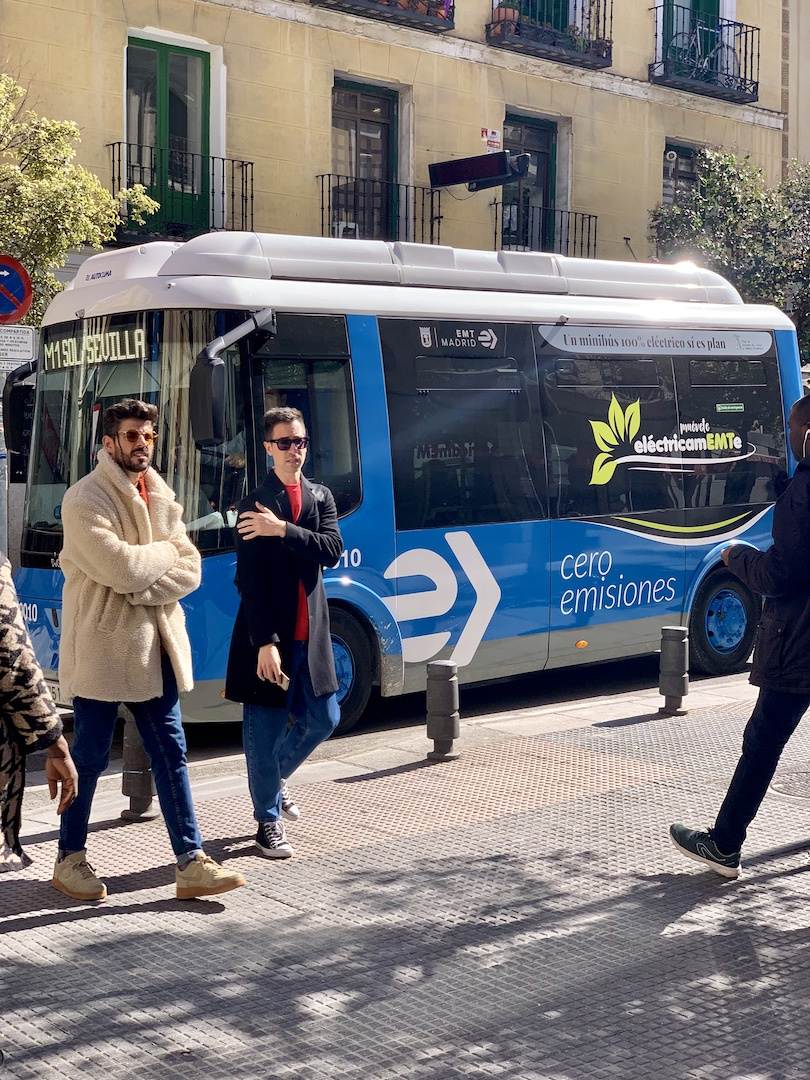
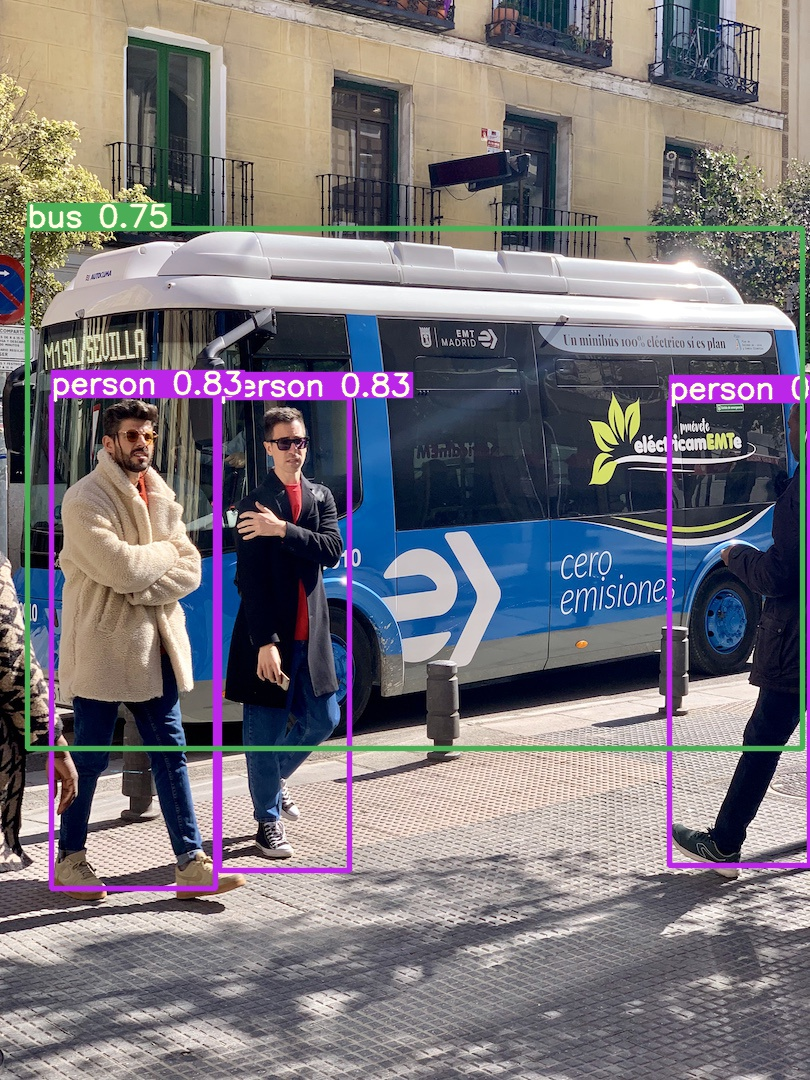
split successfully

Changed region(s): [[0.0309, 0.1833, 1.0, 0.825]]

diff --git a/detect.py b/detect.py
@@ -1,0 +1,201 @@
+import argparse
+
+from utils.datasets import *
+from utils.utils import *
+
+activation = {}
+def get_activation(name):
+    def hook(model, input, output):
+        if type(output) is not tuple: 
+            activation[name] = output.detach()
+    return hook
+
+
+
+def detect(save_img=False):
+    out, source, weights, view_img, save_txt, imgsz = \
+        opt.output, opt.source, opt.weights, opt.view_img, opt.save_txt, opt.img_size
+    webcam = source == '0' or source.startswith('rtsp') or source.startswith('http') or source.endswith('.txt')
+
+    # Initialize
+    device = torch_utils.select_device(opt.device)
+    if os.path.exists(out):
+        shutil.rmtree(out)  # delete output folder
+    os.makedirs(out)  # make new output folder
+    half = device.type != 'cpu'  # half precision only supported on CUDA
+
+    # Load model
+    google_utils.attempt_download(weights)
+    model = torch.load(weights, map_location=device)['model'].float()  # load to FP32
+    # torch.save(torch.load(weights, map_location=device), weights)  # update model if SourceChangeWarning
+    # model.fuse()
+    model.to(device).eval()
+
+    if half:
+        model.half()  # to FP16
+
+    # Second-stage classifier
+    classify = False
+    if classify:
+        modelc = torch_utils.load_classifier(name='resnet101', n=2)  # initialize
+        modelc.load_state_dict(torch.load('weights/resnet101.pt', map_location=device)['model'])  # load weights
+        modelc.to(device).eval()
+
+    # Set Dataloader
+    vid_path, vid_writer = None, None
+    if webcam:
+        view_img = True
+        torch.backends.cudnn.benchmark = True  # set True to speed up constant image size inference
+        dataset = LoadStreams(source, img_size=imgsz)
+    else:
+        save_img = True
+        dataset = LoadImages(source, img_size=imgsz)
+
+    # Get names and colors
+    names = model.names if hasattr(model, 'names') else model.modules.names
+    colors = [[random.randint(0, 255) for _ in range(3)] for _ in range(len(names))]
+
+    # Run inference
+    t0 = time.time()
+    img = torch.zeros((1, 3, imgsz, imgsz), device=device)  # init img
+    _ = model(img.half() if half else img) if device.type != 'cpu' else None  # run once
+    for path, img, im0s, vid_cap in dataset:
+        img = torch.from_numpy(img).to(device)
+        img = img.half() if half else img.float()  # uint8 to fp16/32
+        img /= 255.0  # 0 - 255 to 0.0 - 1.0
+        if img.ndimension() == 3:
+            img = img.unsqueeze(0)
+
+        # Inference
+        t1 = torch_utils.time_synchronized()
+        #print ('pppppshi testing', img.size())
+
+        for idx, m in enumerate(model.modules()):
+            if  idx == 215:
+                print('module size is ', m.state_dict().items())
+            #print('module is ', idx, m )
+                #print('Detect size is ', m.state_dict()['anchor_grid'].size())
+                #print ('detect stride is ', m.stride)
+
+        for name, layer in model.named_modules():
+            layer.register_forward_hook(get_activation(name))
+        #for name, _ in model.named_modules():
+         #   print ("name and layer are ", name)
+
+        pred = model(img, augment=opt.augment)
+        i= 0
+        for key in activation:
+            #if i < 245:
+            #    i = i + 1
+            print('key and its output are', key , activation[key])
+            #else:
+            #    break
+
+        ### pred is a 3-dims tensor and ret_val of model is a tuple of pred
+        print('pred0 is ', pred[0].size())
+        for  p in pred[1]:
+            for i, pi in enumerate(p):
+                print ('testing pi is ', pi)
+
+        pred = pred[0]
+
+        print ('pred is ', pred)
+
+        #print ('classes is ', opt.classes)
+        #print ('agnotic_nms is ', opt.agnostic_nms)
+
+        # Apply NMS
+        pred = non_max_suppression(pred, opt.conf_thres, opt.iou_thres,
+                                   fast=True, classes=opt.classes, agnostic=opt.agnostic_nms)
+        t2 = torch_utils.time_synchronized()
+        #print ('after nms pred is ', pred)
+
+        # Apply Classifier
+        if classify:
+            pred = apply_classifier(pred, modelc, img, im0s)
+
+        # Process detections
+        for i, det in enumerate(pred):  # detections per image
+            if webcam:  # batch_size >= 1
+                p, s, im0 = path[i], '%g: ' % i, im0s[i].copy()
+            else:
+                p, s, im0 = path, '', im0s
+
+            save_path = str(Path(out) / Path(p).name)
+            s += '%gx%g ' % img.shape[2:]  # print string
+            gn = torch.tensor(im0.shape)[[1, 0, 1, 0]]  #  normalization gain whwh
+            print ('in 1 cycle pred is ', pred)
+            if det is not None and len(det):
+                # Rescale boxes from img_size to im0 size
+                det[:, :4] = scale_coords(img.shape[2:], det[:, :4], im0.shape).round()
+
+                # Print results
+                for c in det[:, -1].unique():
+                    n = (det[:, -1] == c).sum()  # detections per class
+                    s += '%g %ss, ' % (n, names[int(c)])  # add to string
+
+                # Write results
+                for *xyxy, conf, cls in det:
+                    if save_txt:  # Write to file
+                        xywh = (xyxy2xywh(torch.tensor(xyxy).view(1, 4)) / gn).view(-1).tolist()  # normalized xywh
+                        with open(save_path[:save_path.rfind('.')] + '.txt', 'a') as file:
+                            file.write(('%g ' * 5 + '\n') % (cls, *xywh))  # label format
+
+                    if save_img or view_img:  # Add bbox to image
+                        label = '%s %.2f' % (names[int(cls)], conf)
+                        plot_one_box(xyxy, im0, label=label, color=colors[int(cls)], line_thickness=3)
+
+            # Print time (inference + NMS)
+            print('%sDone. (%.3fs)' % (s, t2 - t1))
+
+            # Stream results
+            if view_img:
+                cv2.imshow(p, im0)
+                if cv2.waitKey(1) == ord('q'):  # q to quit
+                    raise StopIteration
+
+            # Save results (image with detections)
+            if save_img:
+                if dataset.mode == 'images':
+                    cv2.imwrite(save_path, im0)
+                else:
+                    if vid_path != save_path:  # new video
+                        vid_path = save_path
+                        if isinstance(vid_writer, cv2.VideoWriter):
+                            vid_writer.release()  # release previous video writer
+
+                        fps = vid_cap.get(cv2.CAP_PROP_FPS)
+                        w = int(vid_cap.get(cv2.CAP_PROP_FRAME_WIDTH))
+                        h = int(vid_cap.get(cv2.CAP_PROP_FRAME_HEIGHT))
+                        vid_writer = cv2.VideoWriter(save_path, cv2.VideoWriter_fourcc(*opt.fourcc), fps, (w, h))
+                    vid_writer.write(im0)
+
+    if save_txt or save_img:
+        print('Results saved to %s' % os.getcwd() + os.sep + out)
+        if platform == 'darwin':  # MacOS
+            os.system('open ' + save_path)
+
+    print('Done. (%.3fs)' % (time.time() - t0))
+
+
+if __name__ == '__main__':
+    parser = argparse.ArgumentParser()
+    parser.add_argument('--weights', type=str, default='weights/yolov5s.pt', help='model.pt path')
+    parser.add_argument('--source', type=str, default='inference/images', help='source')  # file/folder, 0 for webcam
+    parser.add_argument('--output', type=str, default='inference/output', help='output folder')  # output folder
+    parser.add_argument('--img-size', type=int, default=640, help='inference size (pixels)')
+    parser.add_argument('--conf-thres', type=float, default=0.4, help='object confidence threshold')
+    parser.add_argument('--iou-thres', type=float, default=0.5, help='IOU threshold for NMS')
+    parser.add_argument('--fourcc', type=str, default='mp4v', help='output video codec (verify ffmpeg support)')
+    parser.add_argument('--device', default='', help='cuda device, i.e. 0 or 0,1,2,3 or cpu')
+    parser.add_argument('--view-img', action='store_true', help='display results')
+    parser.add_argument('--save-txt', action='store_true', help='save results to *.txt')
+    parser.add_argument('--classes', nargs='+', type=int, help='filter by class')
+    parser.add_argument('--agnostic-nms', action='store_true', help='class-agnostic NMS')
+    parser.add_argument('--augment', action='store_true', help='augmented inference')
+    opt = parser.parse_args()
+    opt.img_size = check_img_size(opt.img_size)
+    print(opt)
+
+    with torch.no_grad():
+        detect()

diff --git a/yoloCloud.py b/yoloCloud.py
@@ -49,8 +49,8 @@ class Detect(nn.Module):
                 y = x[i].sigmoid()
                 #print('self gride is ', self.grid[i])
                 #print('self stride is ', self.stride[i])
-                #y[..., 0:2] = (y[..., 0:2] * 2. - 0.5 + self.grid[i].to(x[i].device)) * self.stride[i]  # xy
-                y[..., 0:2] = (y[..., 0:2] * 2. - 0.5 + self.grid[i].to(x[i].device))   # xy
+                y[..., 0:2] = (y[..., 0:2] * 2. - 0.5 + self.grid[i].to(x[i].device)) * self.stride[i]  # xy
+                #y[..., 0:2] = (y[..., 0:2] * 2. - 0.5 + self.grid[i].to(x[i].device))   # xy
                 y[..., 2:4] = (y[..., 2:4] * 2) ** 2 * self.anchor_grid[i]  # wh
                 #print('y is ', y.size())
                 #print('self.no is ', self.no)
@@ -61,7 +61,7 @@ class Detect(nn.Module):
         #for i in z:
         #    print ('z ele is ', i.size())
         hh = torch.cat(z, 1)
-        print ('return for detect is ', hh.size())
+        #print ('return for detect is ', hh.size())
         return x if self.training else (torch.cat(z, 1), x)
 
     @staticmethod
@@ -109,16 +109,17 @@ class Model(nn.Module):
 
         # Build strides, anchors
         m = self.model[-1]  # Detect()
-        xi = self.forward(torch.rand(1,ch,64,64))
+        #xi = self.forward(torch.rand(1,ch,64,64))
         #for  x in xi:
         #    print('x and its ele are ', len(x), x[0].size())
-        m.stride = torch.tensor([256 / x.shape[-2] for x in xi[1]])  # forward
+        #m.stride = torch.tensor([256 / x.shape[-2] for x in xi[1]])  # forward
+        m.stride = torch.tensor([8., 16., 32.])
         #print('m.stride in Model is ', m.stride)
         m.anchors /= m.stride.view(-1, 1, 1)
         self.stride = m.stride
 
         # Init weights, biases
-        torch_utils.initialize_weights(self)
+        #torch_utils.initialize_weights(self)
         #self._initialize_biases()  # only run once
         #torch_utils.model_info(self, True)
 
@@ -244,6 +245,12 @@ def connect():
         #for  p in pred[1]:
             #for i, pi in enumerate(p):
                # print ('testing pi is ', pi.size())
+
+        #for  p in pred[1]:
+                    #for i, pi in enumerate(p):
+                        #print ('testing pi is ', pi)
+
+        #print ('pred is ', pred[0])
 
         predo = pred[0]
         #print('testing pi is ', predo.size())

diff --git a/yoloEdge.py b/yoloEdge.py
@@ -71,20 +71,8 @@ class Model(nn.Module):
         self.model, self.save = parse_model(self.md, ch=[ch])  # model, savelist, ch_out
         # print([x.shape for x in self.forward(torch.zeros(1, ch, 64, 64))])
 
-        # Build strides, anchors
-        if isinstance(self.model[-1], Detect):
-            m = self.model[-1]  # Detect()
-            tx = self.forward(torch.zeros(1,ch,64,64))
-            for x in tx:
-                for i in x:
-                    print('tell  me x is ', i.size())
-            #print ('testing tx is ', tx)
-            m.stride = torch.tensor([64 / x.shape[-2] for x in tx])  # forward
-            m.anchors /= m.stride.view(-1, 1, 1)
-            self.stride = m.stride
-
         # Init weights, biases
-        torch_utils.initialize_weights(self)
+        #torch_utils.initialize_weights(self)
         #self._initialize_biases()  # only run once
         #torch_utils.model_info(self, True)
 
@@ -366,11 +354,11 @@ def detect(save_img=False):
         ret_tensor = ret_ndarray
         pred = torch.from_numpy(ret_ndarray)
 
-        print ('final pred is ', pred)
+        #print ('final pred is ', pred)
         pred = non_max_suppression(pred, opt.conf_thres, opt.iou_thres,
                              fast=True, classes=opt.classes, agnostic=opt.agnostic_nms)
         t2 = torch_utils.time_synchronized()
-        print ('after nms pred is ', pred)
+        #print ('after nms pred is ', pred)
 
         classify = False
         # Apply Classifier
@@ -405,6 +393,7 @@ def detect(save_img=False):
 
                     if save_img or view_img:  # Add bbox to image
                         label = '%s %.2f' % (names[int(cls)], conf)
+                        plot_one_box(xyxy, im0, label=label, color=colors[int(cls)], line_thickness=3)
                     # Print time (inference + NMS)
                 print('%sDone. (%.3fs)' % (s, t2 - t1))
 
@@ -423,7 +412,6 @@ def detect(save_img=False):
                             vid_path = save_path
                             if isinstance(vid_writer, cv2.VideoWriter):
                                 vid_writer.release()  # release previous video writer
-
 
                             fps = vid_cap.get(cv2.CAP_PROP_FPS)
                             w = int(vid_cap.get(cv2.CAP_PROP_FRAME_WIDTH))
